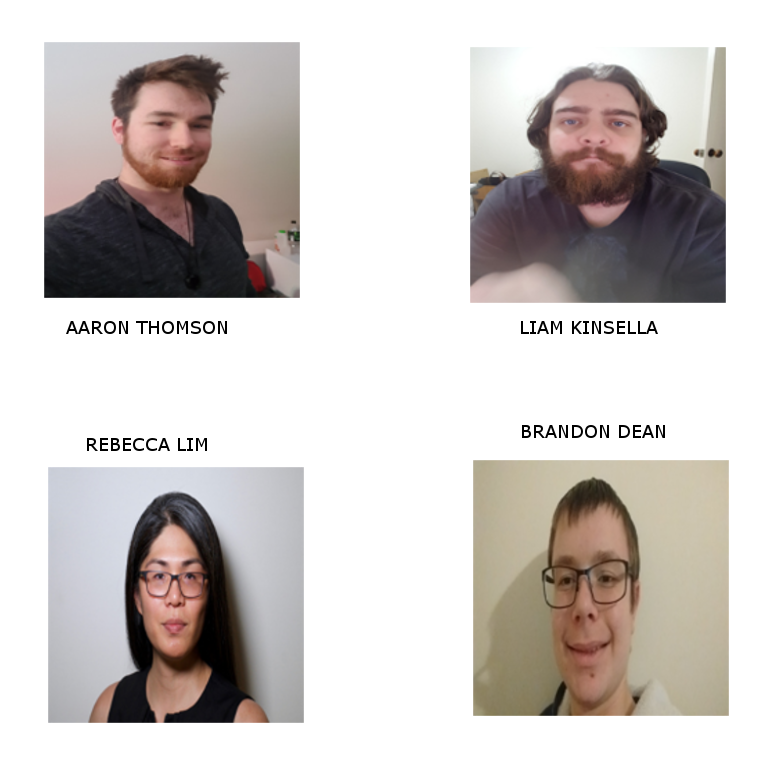
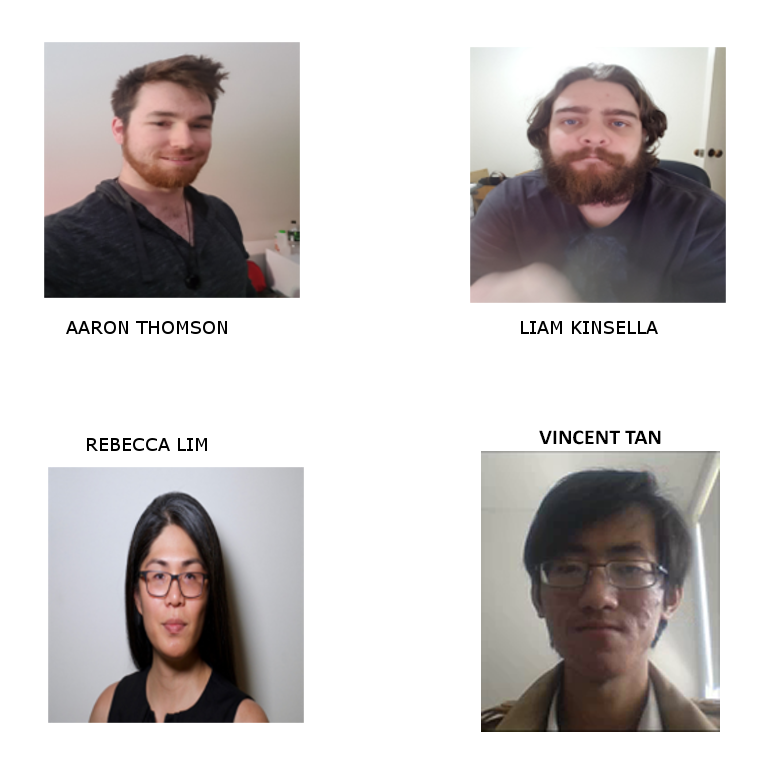
VT Added Story and changed Group picture

Changed region(s): [[0.5938, 0.5312, 0.9688, 0.9688]]

diff --git a/eNGin/main.cpp b/eNGin/main.cpp
@@ -7,6 +7,7 @@
 #define GAME_STATE 2
 #define PAUSE_MENU 5
 #define DEATH_MENU 6
+#define STORY_MENU 7
 
 Game game;
 
@@ -169,7 +170,7 @@ void Mouse(int button, int state, int x, int y)
 	}
 
 	if (game.GetState() == GAME_STATE) {
-		if (game.GetMenu()->GetMenuState() == MAIN_MENU || game.GetMenu()->GetMenuState() == PAUSE_MENU || game.GetMenu()->GetMenuState() == DEATH_MENU)
+		if (game.GetMenu()->GetMenuState() == MAIN_MENU || game.GetMenu()->GetMenuState() == PAUSE_MENU || game.GetMenu()->GetMenuState() == DEATH_MENU || game.GetMenu()->GetMenuState() == STORY_MENU)
 		{
 			game.GetMenu()->MouseClick(button, state, x, y);
 		}
@@ -188,7 +189,7 @@ void MouseMove(int x, int y)
 {
 	bool showCursor = false;
 
-	if (game.GetMenu()->GetMenuState() == MAIN_MENU || game.GetMenu()->GetMenuState() == PAUSE_MENU || game.GetMenu()->GetMenuState() == DEATH_MENU)
+	if (game.GetMenu()->GetMenuState() == MAIN_MENU || game.GetMenu()->GetMenuState() == PAUSE_MENU || game.GetMenu()->GetMenuState() == DEATH_MENU || game.GetMenu()->GetMenuState() == STORY_MENU)
 	{
 		showCursor = true;
 	}

diff --git a/eNGin/Game.cpp b/eNGin/Game.cpp
@@ -93,6 +93,7 @@ void Game::Initialise()
 	textures[26].LoadTexture("data/hb_full_right.png", 32, 32);
 	textures[27].LoadTexture("data/Pause.png", 512, 512);
 	textures[28].LoadTexture("data/Death.png", 512, 512);
+	textures[29].LoadTexture("data/Story.png", 768, 768);
 
 	models[0] = new Model("data/wall1.obj");
 	models[1] = new Model("data/statue_base.obj");
@@ -262,6 +263,10 @@ void Game::Draw()
 				{
 					menuScreens->Draw(textures[28]);
 					menuScreens->SetMenuState(DEATH_MENU);
+				}
+				else if (menuScreens->GetMenuState() == STORY_MENU)
+				{
+					menuScreens->Draw(textures[29]);
 				}
 				else
 				{
@@ -531,6 +536,16 @@ void Game::SwitchState()
 		glClearColor(0, 0, 0, 1);
 		glFlush();
 		bgmControl.SetSong(1);
+	}
+	else if (state == MENU_STATE && menuScreens->GetMenuState() == STORY_MENU)
+	{
+		pauseScreen = false;
+		deathScreen = false;
+		menuScreens->SetMenuState(STORY_MENU);
+		menuScreens->SetMenuState(MAIN_MENU);
+		glClear(GL_COLOR_BUFFER_BIT | GL_DEPTH_BUFFER_BIT);
+		glClearColor(0, 0, 0, 1);
+		glFlush();
 	}
 }
 

diff --git a/eNGin/Menu.cpp b/eNGin/Menu.cpp
@@ -108,6 +108,16 @@ void Menu::MouseClick(int button, int state, int x, int y)
 				exitScreen = true;
 			}
 		}
+		else if (menuState == STORY_MENU)
+		{
+			yUp = windowHeight / 1.41697416974;
+			yDown = windowHeight / 1.19254658385;
+
+			if ((x >= xLeft && x <= xRight) && (y >= yUp && y <= yDown))
+			{
+				owner->SwitchState();
+			}
+		}
 		else
 		{
 			yUp = windowHeight / 2.88721804511;
@@ -115,7 +125,7 @@ void Menu::MouseClick(int button, int state, int x, int y)
 
 			if ((x >= xLeft && x <= xRight) && (y >= yUp && y <= yDown))
 			{
-				owner->Restart();
+				menuState = STORY_MENU;
 			}
 			else if ((x >= xLeft && x <= xRight) && (y >= yUp + yDistance && y <= yDown + yDistance))
 			{

diff --git a/eNGin/Game.h b/eNGin/Game.h
@@ -27,6 +27,7 @@
 #define MAIN_MENU 4
 #define PAUSE_MENU 5
 #define DEATH_MENU 6
+#define STORY_MENU 7
 
 #define tPlayer 0
 #define tEnemy 1

diff --git a/eNGin/Menu.h b/eNGin/Menu.h
@@ -11,6 +11,7 @@ class Game;
 #define GAME_STATE 2
 #define PAUSE_MENU 5
 #define DEATH_MENU 6
+#define STORY_MENU 7
 
 /**
  *	@class Menu
